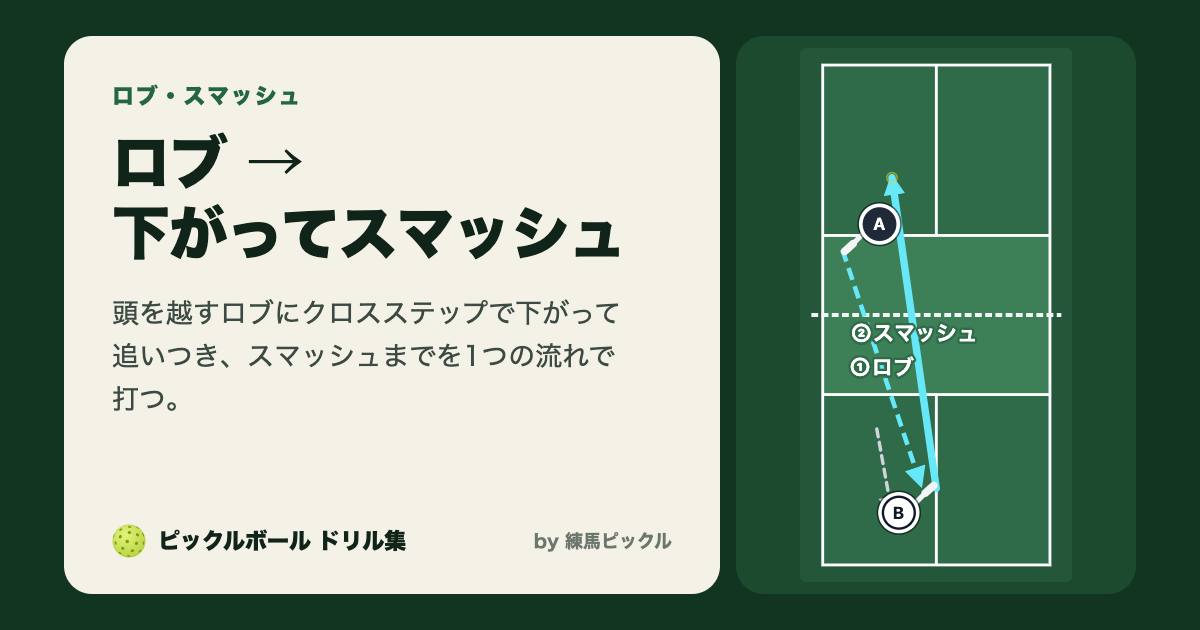
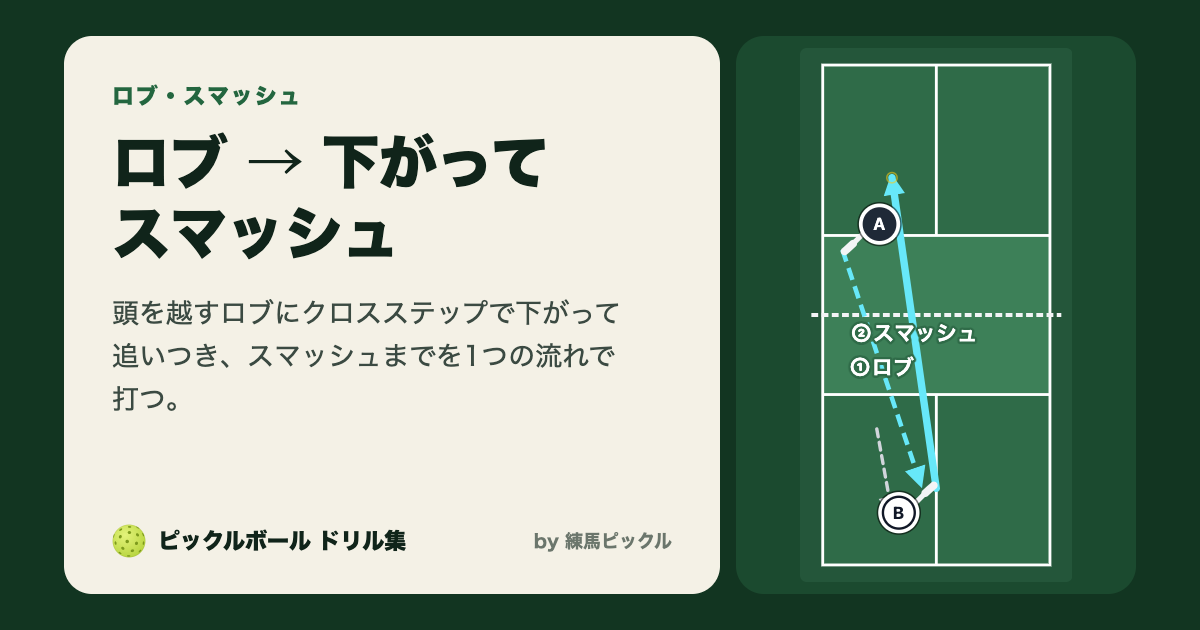
gam001: renamed 綱引きクロスディンクゲーム, winning score chosen (2 short, 5 long); share-image titles break where katakana starts and shrink to fit
Claude-Session: https://claude.ai/code/session_013HpVCq95JLREtWQF64J4S6

Changed region(s): [[0.0925, 0.3317, 0.5242, 0.4222], [0.2467, 0.2111, 0.4625, 0.3016]]

diff --git a/src/content/docs/drills/gam/gam001.md b/src/content/docs/drills/gam/gam001.md
@@ -1,6 +1,6 @@
 ---
-title: クロスディンク 綱引きゲーム
-description: 2人で1つのスコアを0から動かし、+2か−2に先に届いたほうが勝つクロスディンクのゲーム
+title: 綱引きクロスディンクゲーム
+description: 2人で1つのスコアを0から動かし、決めた点に+か−の側で先に届いたほうが勝つクロスディンクのゲーム
 sidebar:
   order: 1
 drill:
@@ -14,16 +14,16 @@ drill:
   setup: 2人1組でクロス（対角）に入り、2人ともキッチンライン付近に立つ。2人とも、自分の半面の真ん中から少し相手の側に寄った位置（基本の位置）で待つ。スコアは2人で1つだけ持つ。1面で2組同時にできる。
   feed: どちらかがクロスにディンクを出して始める。
   steps:
-    - スコアを0から始める
+    - 勝ちの点を決める（短くやるなら2点、長くやるなら5点）。スコアを0から始める
     - クロスのディンクで打ち合う。浮いた球は攻めてよい
     - A がその球の勝負に勝ったら +1、B が勝ったら −1 にする
-    - +2 になったら A の勝ち、−2 になったら B の勝ち。スコアを0に戻して次のゲームを始める
+    - スコアが +（勝ちの点）になったら A の勝ち、−（勝ちの点）になったら B の勝ち。スコアを0に戻して次のゲームを始める
   points:
     - 体の横ではなく、体の前（足の前）で打つ
     - パドルのヘッドを下げた形から打ち出す。ストロークのように後ろから振らない
     - 自分から無理に攻めず、相手が浮かせるまで低く返し続ける
     - 打ったら必ず基本の位置へ戻る。最初から端で待たない
-  notes: 例えば、スコアは 0 → +1 → 0 → −1 → −2（B の勝ち）と動く。勝っている人も1点落とせば0に戻るので、最後まで気を抜けない。
+  notes: 例えば2点で勝負するとき、スコアは 0 → +1 → 0 → −1 → −2（B の勝ち）と動く。勝っている人も1点落とせば0に戻るので、最後まで気を抜けない。
   diagram:
     players:
       - { id: A, at: far-leftInner-kitchen, sidestep: far-leftOuter-kitchen, role: practice }

diff --git a/docs/decisions.md b/docs/decisions.md
@@ -113,3 +113,4 @@
   - 球を2つ以上同時に使う手は、前の手のボールの続きになる球を先に並べる（並べる順を手で決めなくてよい）。
   - 共有画像は、主役の手に球が2つ以上あれば、その手だけを描く（dnk002・dnk005 の `ogSteps` をやめた）。
 - 書き手の注文が今ある規則に当てはまらないときは、作業の前に「どういう規則か」を案を添えて聞き、規則にしてからコードかスキルに書く。この場だけの例外は、書き手がそう決めたときだけ（書き手の方針。AGENTS.md と add-drill スキルに書いた）。
+- 共有画像の題名の折り返しを規則にした。空白のない長い題名でも、カタカナが始まる所（綱引き｜クロスディンク）で折り返せるようにし（開きかっこの直後では切らない）、折り返せない部分が1行に収まらなければ、収まるまで文字を小さくする（44px まで）。「クロスディン｜クゲーム」のように言葉の途中で切れていたため。
